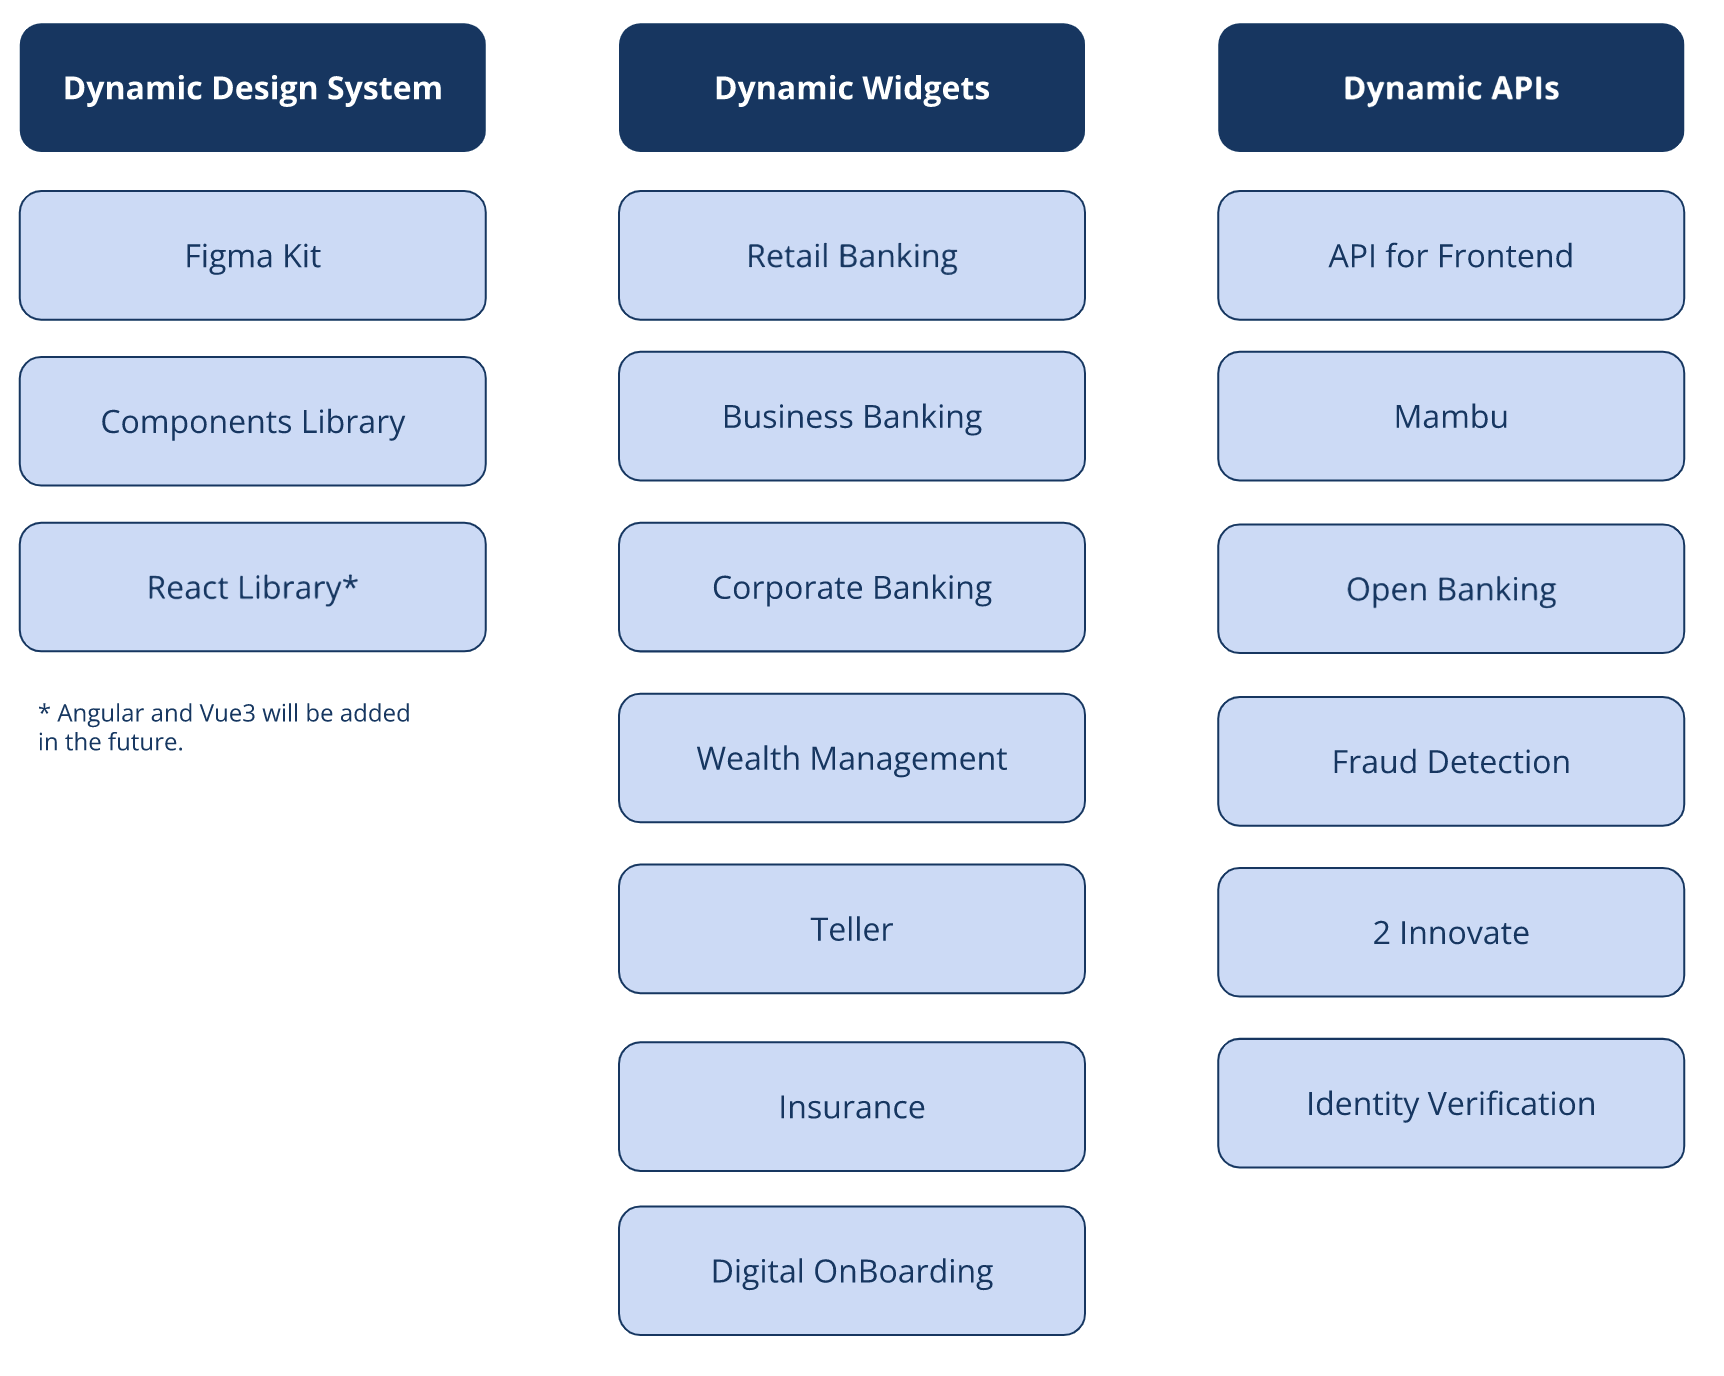
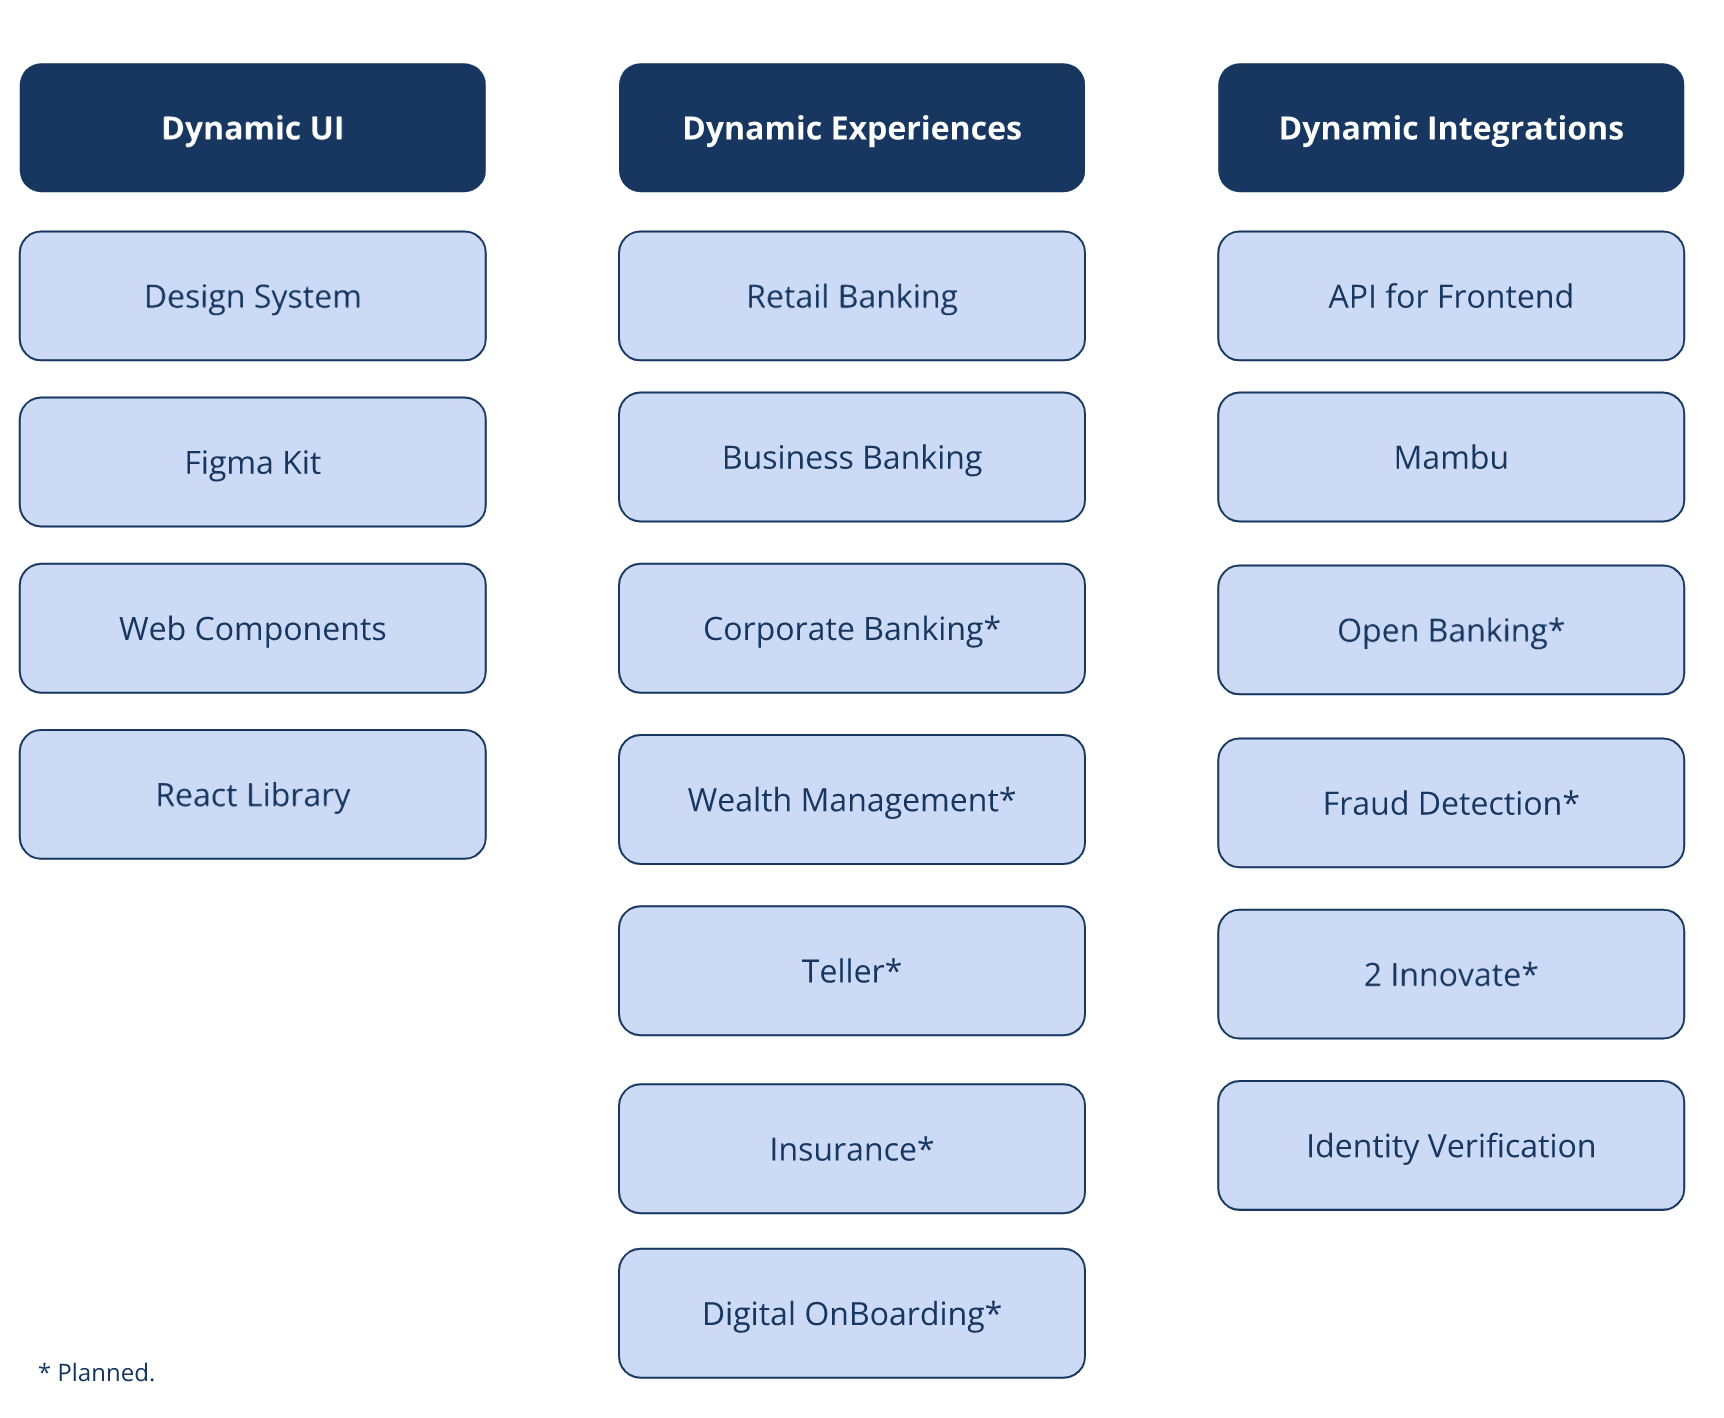
Mejoras

diff --git a/docs/es/dynamic/README.md b/docs/es/dynamic/README.md
@@ -19,27 +19,23 @@ Modyo Dynamic incorpora los siguientes componentes:
 <img src="/assets/img/dynamic/dynamic_components.png" alt="Dynamic structure" style="margin-top: 40px; max-width: 700px;" />
 
 
-
-
-## Modelo de subscripción
-
-
-## Modelo de soporte
-
-
-#### Dynamic Design System
+### Dynamic Design System
 
 El sistema de diseño de Modyo Dynamic permite componer interfaces orientadas en la industria financiera de una forma fácil y rápida, tomando ventaja de un catálogo de componentes pre fabricados que resuelven los problemas comunes en la experiencia de usuarios.
 
 El sistema de diseño de Modyo Dynamic se compone de un kit de diseño en Figma y una completa librería de componentes en ReactJS.
 
 
-#### Dynamic Financial Experiences
+### Dynamic Financial Experiences
 
 Los Widgets de Modyo Dynamic
 
 
-#### Dynamic APIs
+### Dynamic Integrations
+
+
+
+
 
 
 

diff --git a/docs/es/dynamic/architecture.md b/docs/es/dynamic/architecture.md
@@ -6,9 +6,18 @@ search: false
 
 Componentes principales, diagrama.
 
+<img src="/assets/img/dynamic/dynamic_architecture.png" alt="Dynamic structure" style="margin-top: 40px; max-width: 700px;" />
 
 
-## Micro Frontends
+## Dynamic Experiences
+
+:::tip Modyo Platform
+Para más información sobre Modyo Platform y sus funcionalidades, favor referirse a su [documentación oficial]("/es/platform").
+:::
+
+
+
+### Micro Frontends
 
 ### Web Components
 
@@ -20,7 +29,13 @@ Componentes principales, diagrama.
 
 
 
-## Microservicios
+## Dynamic Integrations
+
+### Microservicios
 
 
 ### Modyo Connect
+
+:::tip Modyo Connect
+Para más información sobre Modyo Connect y sus componentes, favor referirse a su [documentación oficial]("/es/connect").
+:::
